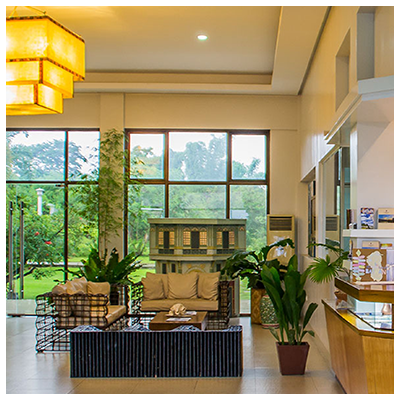
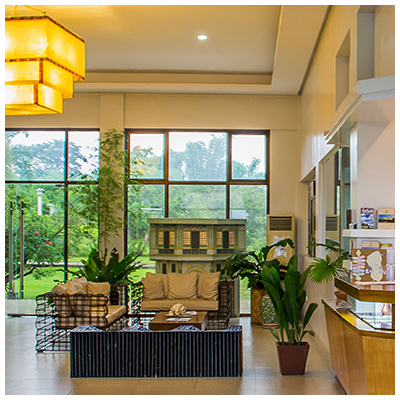
adjust the border of slideshow thumbnail

Changed region(s): [[0.96, 0.96, 0.99, 0.99], [0.96, 0.0, 0.99, 0.03], [0.0, 0.96, 0.03, 0.99]]

diff --git a/css/template.css b/css/template.css
@@ -227,7 +227,6 @@ nav{
 .navlist{
   display: flex;
   font-family: var(--secondary-font-family);
-  text-transform: uppercase;
 }
 
 .navitem:not(:last-child){
@@ -415,9 +414,10 @@ main{
 }
 
 .col-right .thumbnail-img{
+  position: relative;
+  overflow: hidden;
   width: 400px;
   height: 400px;
-  background-color: #5B58FB;
 }
 
 
@@ -527,7 +527,8 @@ main{
 
   .col-right .thumbnail-img{
     width: 300px;
-  height: 300px;
+    height: 300px;
+
   }
 
  
